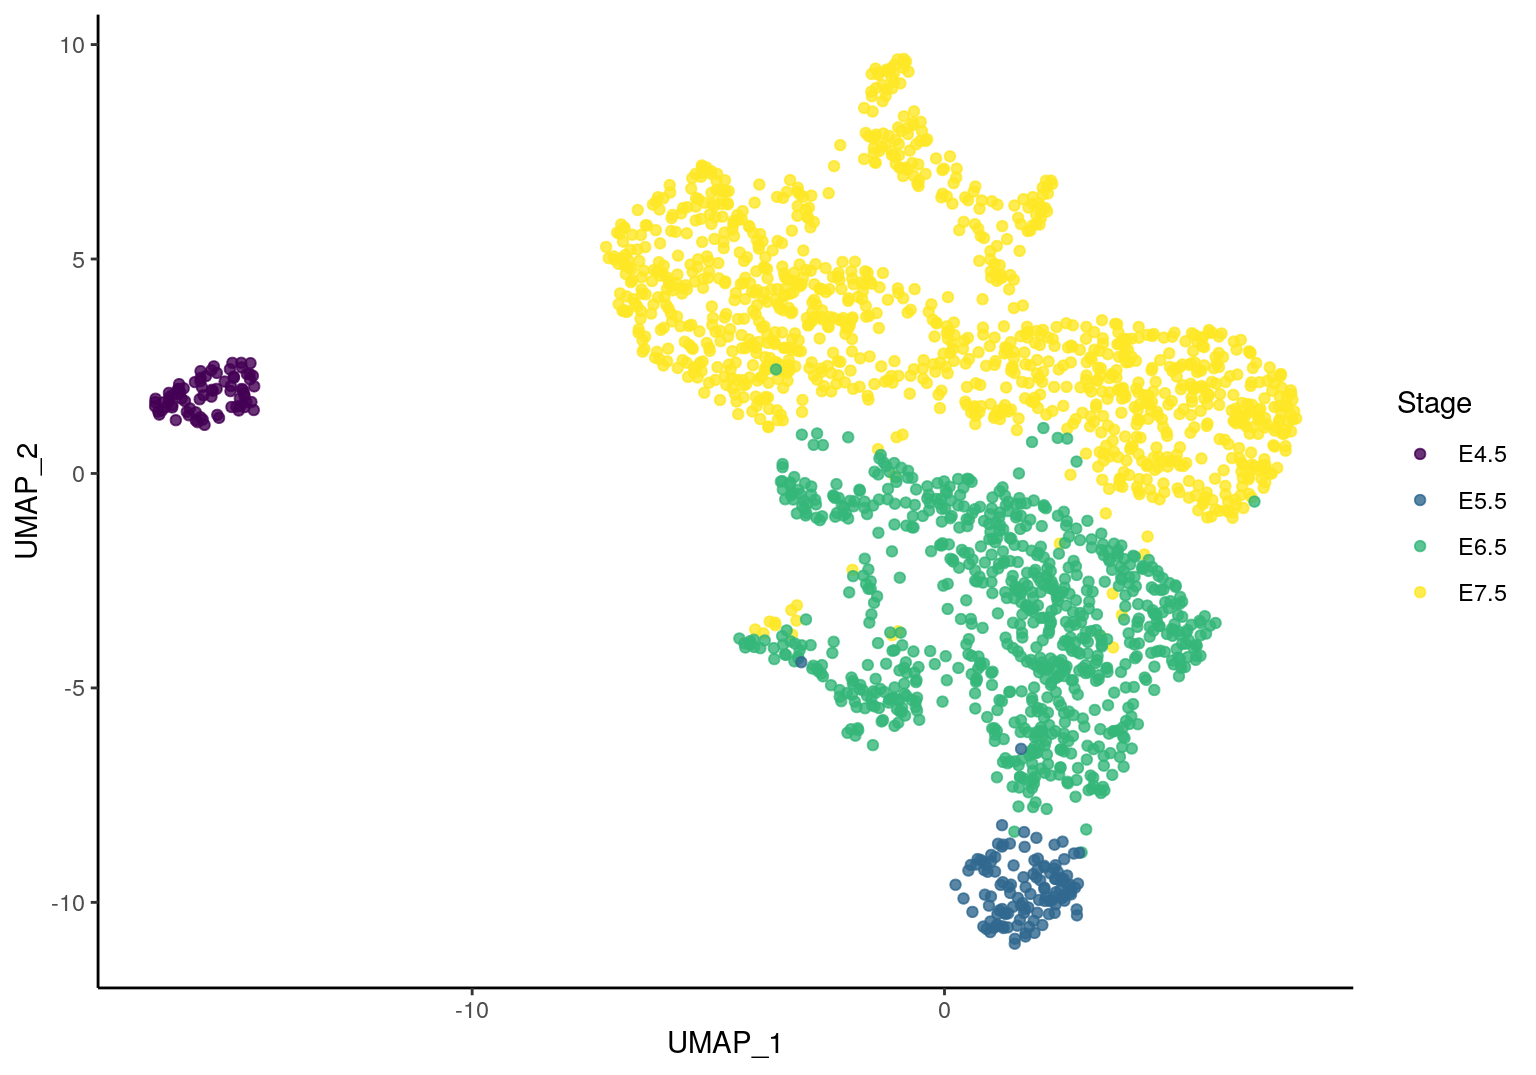
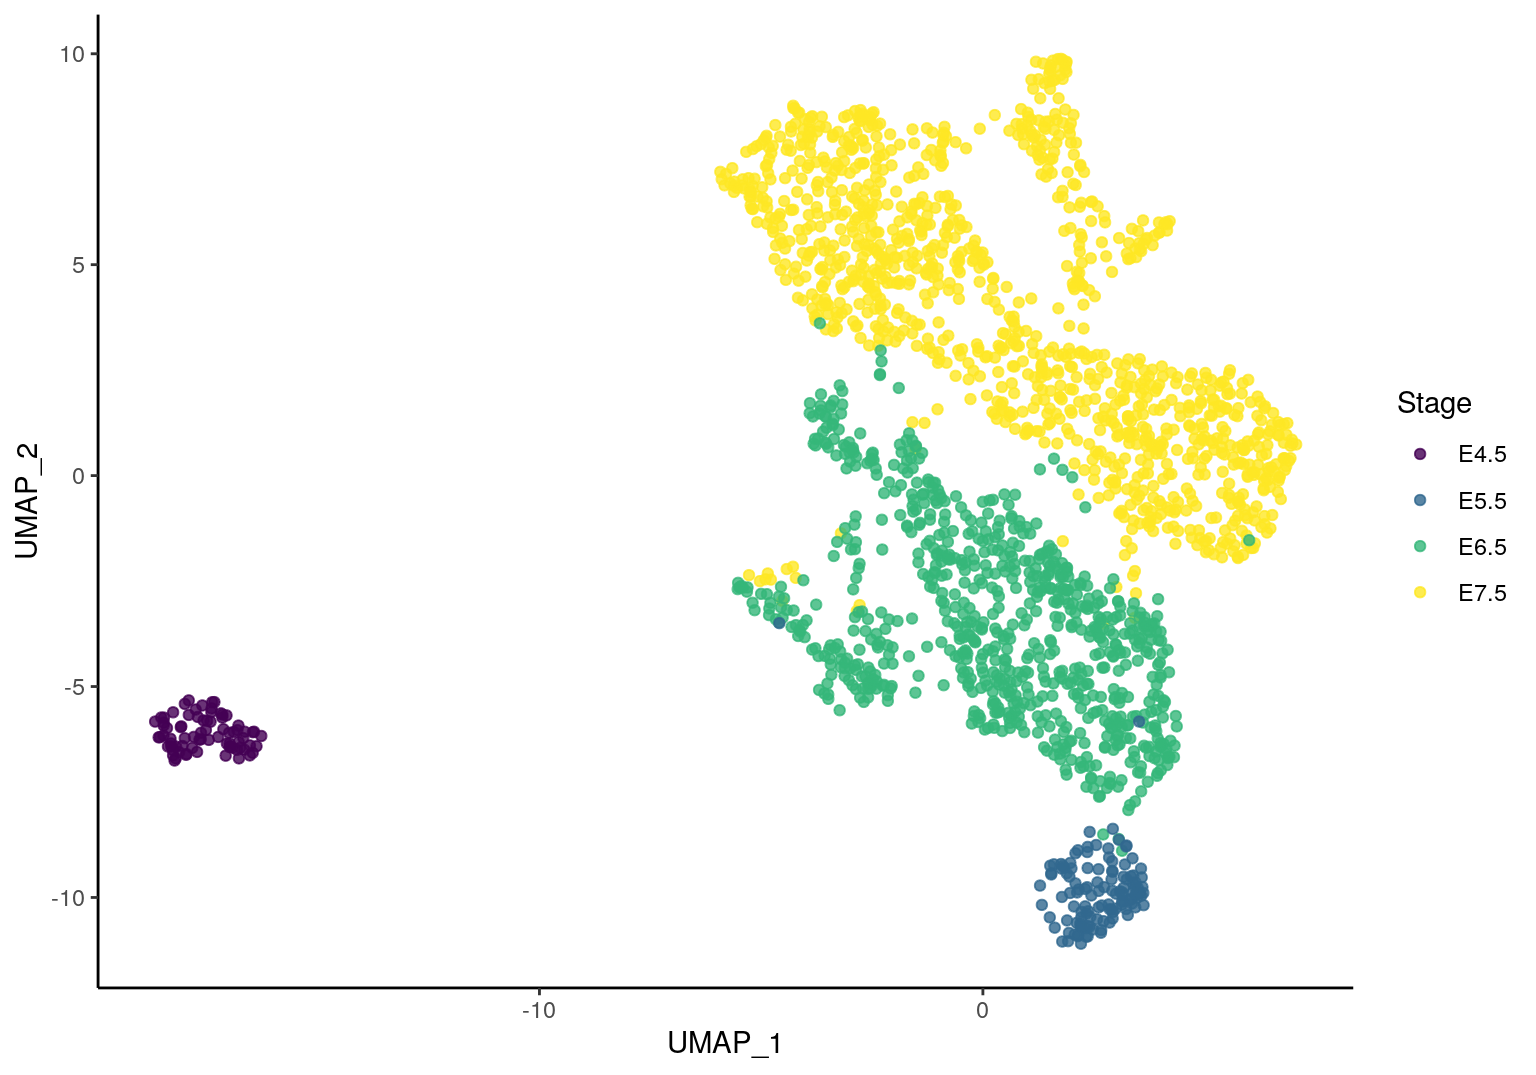
Deploying to gh-pages from  @ 08b9c771abeccac94ae46a1d3cd494b086b107b0 🚀

diff --git a/articles/index.html b/articles/index.html
@@ -414,7 +414,7 @@
 <!-- ``` -->
 <p>Here we select for 50 features on each component in <code>multimodal_sPLS_wrapper</code>:</p>
 <div class="sourceCode" id="cb20"><html><body><pre class="r"><span class="co">## number of components</span>
-<span class="no">ncomp</span> <span class="kw">&lt;-</span> <span class="fl">5</span>
+<span class="no">ncomp</span> <span class="kw">&lt;-</span> <span class="no">params</span>$<span class="no">pls_ncomp</span>
 <span class="co">## feature scaling</span>
 <span class="no">scale</span> <span class="kw">&lt;-</span> <span class="fl">TRUE</span></pre></body></html></div>
 <div class="sourceCode" id="cb21"><html><body><pre class="r"><span class="fu"><a href="https://rdrr.io/r/base/cat.html">cat</a></span>(<span class="fu"><a href="https://rdrr.io/r/base/sprintf.html">sprintf</a></span>(<span class="st">'Running PLS with %s components performing variable selection\n'</span>, <span class="no">ncomp</span>))
@@ -430,7 +430,7 @@
 
 <span class="fu"><a href="https://rdrr.io/r/base/cat.html">cat</a></span>(<span class="st">'\nPLS run finished. Runtime: '</span>, <span class="fu">format_runtime</span>(<span class="no">st</span>), <span class="st">'\n'</span>)
 <span class="co">#&gt; </span>
-<span class="co">#&gt; PLS run finished. Runtime:  00:04:27</span></pre></body></html></div>
+<span class="co">#&gt; PLS run finished. Runtime:  00:04:00</span></pre></body></html></div>
 <div class="sourceCode" id="cb22"><html><body><pre class="r"><span class="no">plot_pls</span> <span class="kw">&lt;-</span> <span class="kw">function</span>(<span class="no">pls_obj</span>, <span class="no">stage</span>, <span class="no">legend.title</span> <span class="kw">=</span> <span class="st">'Stage'</span>, <span class="no">comp</span> <span class="kw">=</span> <span class="fu"><a href="https://rdrr.io/r/base/c.html">c</a></span>(<span class="fl">1</span>,<span class="fl">2</span>), <span class="no">col_palette</span>) {
   <span class="no">variates</span> <span class="kw">&lt;-</span> <span class="fu"><a href="https://rdrr.io/r/base/lapply.html">lapply</a></span>(<span class="no">pls_obj</span>$<span class="no">variates</span>, <span class="kw">function</span>(<span class="no">arr</span>){
     <span class="no">df</span> <span class="kw">&lt;-</span> <span class="fu"><a href="https://rdrr.io/r/base/as.data.frame.html">as.data.frame</a></span>(<span class="no">arr</span>[,<span class="no">comp</span>])
@@ -487,7 +487,7 @@
     <span class="fu"><a href="https://ggplot2.tidyverse.org/reference/geom_point.html">geom_point</a></span>(<span class="fu"><a href="https://ggplot2.tidyverse.org/reference/aes_.html">aes_string</a></span>(<span class="kw">x</span> <span class="kw">=</span> <span class="no">axes</span>[<span class="fl">1</span>], <span class="kw">y</span> <span class="kw">=</span> <span class="no">axes</span>[<span class="fl">2</span>], <span class="kw">col</span> <span class="kw">=</span> <span class="st">'stage'</span>), <span class="kw">alpha</span> <span class="kw">=</span> <span class="no">params</span>$<span class="no">ggplot_alph</span>) +
     <span class="fu"><a href="https://ggplot2.tidyverse.org/reference/facet_wrap.html">facet_wrap</a></span>(<span class="no">.</span>~<span class="no">Modality</span>, <span class="kw">ncol</span> <span class="kw">=</span> <span class="fl">2</span>) +
     <span class="fu"><a href="https://ggplot2.tidyverse.org/reference/scale_manual.html">scale_color_manual</a></span>(<span class="kw">values</span> <span class="kw">=</span> <span class="no">col_palette</span>)</pre></body></html></div>
-<p><img src="index_files/figure-html/unnamed-chunk-31-1.png" width="768"></p>
+<p><img src="index_files/figure-html/unnamed-chunk-31-1.png" width="768"> UMAP projection using 5 PLS components for each modality shows the distinct states of early stage cells on transcriptional and DNA methylation level. These states are coordinated across both molecular levels. The projection also demonstrates the transition from mid-stage to late-stage for single cells across different views.</p>
 </div>
 </div>
 <div id="concordance-with-rna" class="section level1">
